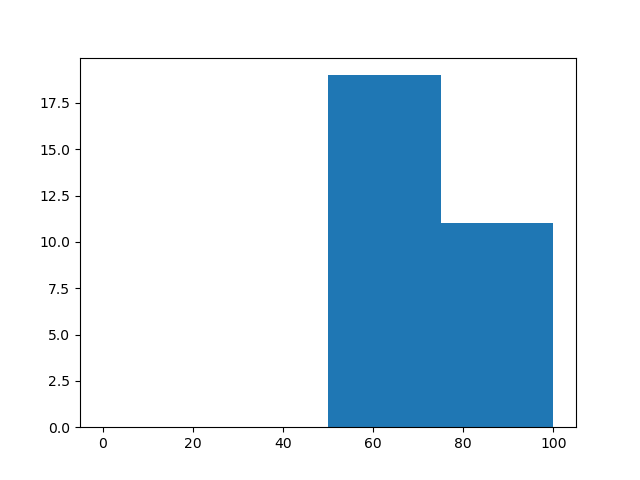
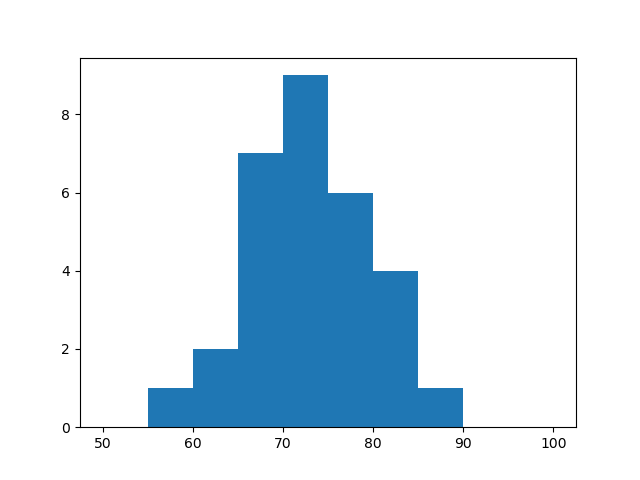
changed bin sizes to match expected output expressed in lab doc

diff --git a/lab11/Lab11.py b/lab11/Lab11.py
@@ -115,7 +115,11 @@ def display_graph(assignments, submissions, assignment_name):
         return "Submissions not found"
 
     plt.figure() 
-    plt.hist(scores, bins=[0, 25, 50, 75, 100])
+    plt.hist(scores, bins=[
+                    50, 55, 60, 65, 
+                    70, 75, 80, 85, 
+                    90, 95, 100
+                        ])
     plt.savefig('plot.png')
     '''
     The plt will get saved to the project directory
